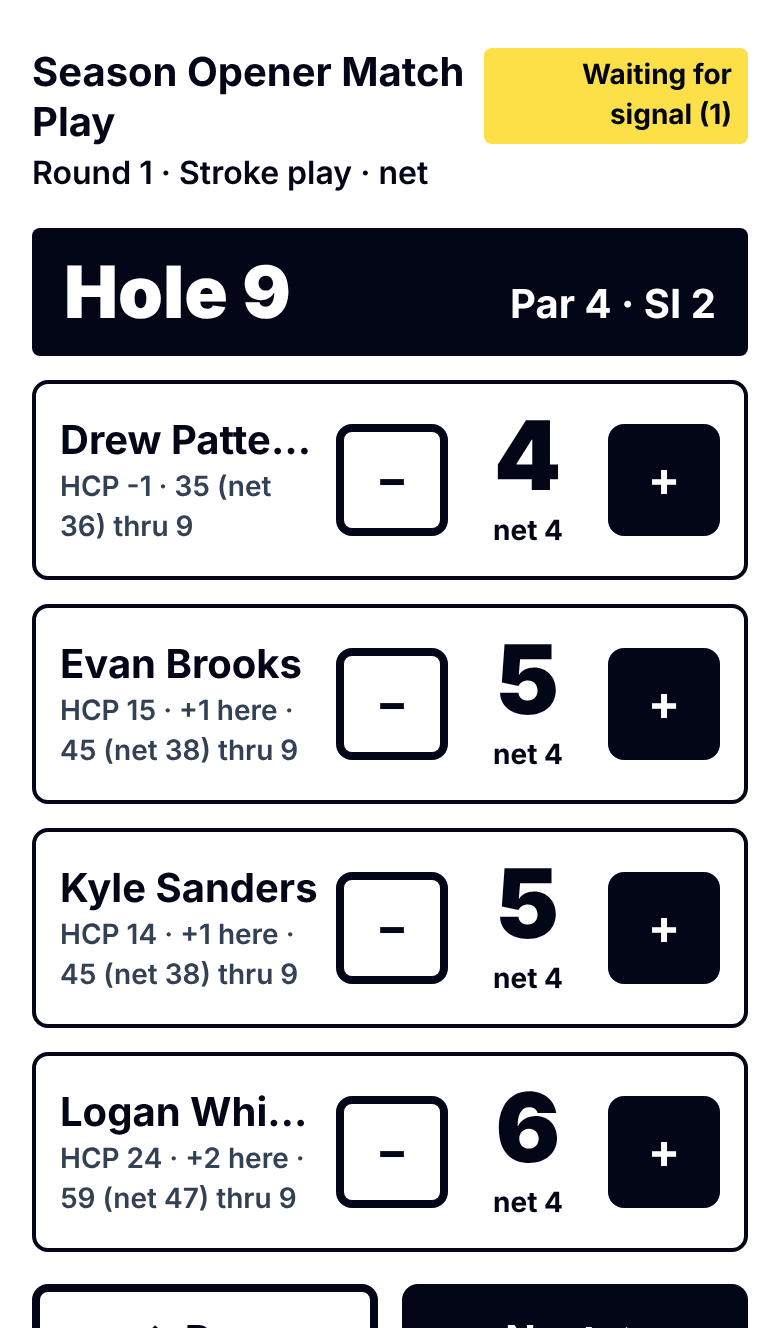
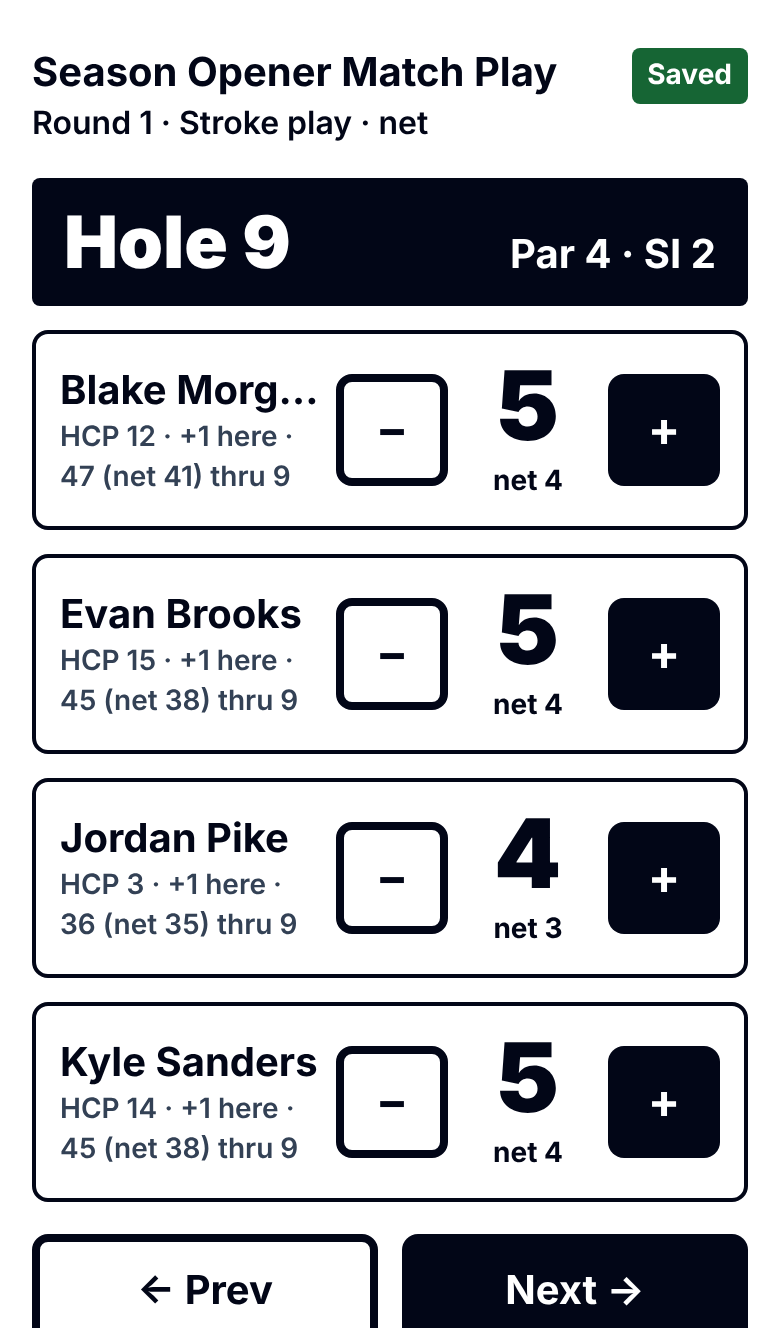
fix(web): callback/middleware redirect to the browser's host; test(e2e): real login; docs: production seed and runbook; plus-handicap display
Claude-Session: https://claude.ai/code/session_0187sESXVTZDKtGNzMULCxre

Changed region(s): [[0.0308, 0.0309, 0.9846, 1.0]]

diff --git a/apps/web/e2e/opener.spec.ts b/apps/web/e2e/opener.spec.ts
@@ -9,7 +9,7 @@ const admin = adminClient();
 const COMMISSIONER = 'player01@example.test';
 const SHOTS = path.resolve(process.cwd(), '../../docs/screenshots');
 const FLOW_TABBAR = 'nav[aria-label="Primary"] { position: static !important; }'; // keep the fixed tab bar out of the middle of full-page shots
-const baseURL = `http://127.0.0.1:${process.env.E2E_PORT ?? 3100}`;
+const baseURL = `http://127.0.0.1:${process.env.E2E_PORT ?? 3000}`;
 
 const w: World = {
   eventId: '',
@@ -49,6 +49,71 @@ test.describe.configure({ mode: 'serial' });
 
 test.afterAll(async () => {
   for (const c of w.contexts.values()) await c.close().catch(() => {});
+});
+
+// --- The real sign-in path: /login form -> emailed link (read from the local Mailpit) -> /auth/callback -> player link.
+const MAILPIT = process.env.MAILPIT_URL ?? 'http://127.0.0.1:54324';
+
+/** Link in the newest message to `to` that arrived after `since` (the Supabase magic-link email). */
+async function magicLinkFor(to: string, since: number): Promise<string> {
+  let link = '';
+  await expect
+    .poll(
+      async () => {
+        const list = (await (await fetch(`${MAILPIT}/api/v1/search?query=${encodeURIComponent(`to:${to}`)}`)).json()) as {
+          messages: { ID: string; Created: string }[];
+        };
+        const fresh = list.messages.filter((m) => new Date(m.Created).getTime() >= since).sort((a, b) => b.Created.localeCompare(a.Created))[0];
+        if (!fresh) return '';
+        const msg = (await (await fetch(`${MAILPIT}/api/v1/message/${fresh.ID}`)).json()) as { HTML: string; Text: string };
+        const m = (msg.HTML + msg.Text).match(/https?:\/\/[^"'\s<>]*\/auth\/v1\/verify[^"'\s<>]*/);
+        link = (m?.[0] ?? '').replace(/&amp;/g, '&');
+        return link;
+      },
+      { timeout: 30_000, message: `no sign-in email for ${to} in Mailpit` },
+    )
+    .not.toBe('');
+  return link;
+}
+
+async function signInThroughForm(browser: Browser, email: string) {
+  const context = await anonymousPhone(browser, baseURL);
+  const page = await context.newPage();
+  const since = Date.now() - 2000;
+  await page.goto('/login');
+  await page.getByLabel('Email').fill(email);
+  await page.getByRole('button', { name: 'Email me a sign-in link' }).click();
+  await expect(page.getByRole('status')).toHaveText('Check your email for a sign-in link.');
+  const link = await magicLinkFor(email, since);
+  await page.goto(link); // same browser context: it holds the PKCE code verifier cookie
+  return { context, page };
+}
+
+test('login: a rostered player signs in through the real form, email link and /auth/callback', async ({ browser }) => {
+  const email = 'player12@example.test';
+  const before = await must(admin.from('players').select('user_id').eq('email', email).single());
+  expect(before.user_id).toBeNull();
+  const { context, page } = await signInThroughForm(browser, email);
+  await expect(page).toHaveURL(`${baseURL}/events`); // "/" sends a signed-in player to Events
+  await expect(page.getByRole('navigation', { name: 'Primary' })).toBeVisible();
+  await page.goto('/me');
+  await expect(page.getByRole('heading', { name: 'Me' })).toBeVisible();
+  await expect(page.getByText(email)).toBeVisible();
+  const after = await must(admin.from('players').select('user_id').eq('email', email).single());
+  expect(after.user_id).toBeTruthy();
+  await context.close();
+});
+
+test('login: an email that is not on the roster ends signed out with "Ask a commissioner to add you."', async ({ browser }) => {
+  const email = 'stranger@example.test';
+  const { context, page } = await signInThroughForm(browser, email);
+  await expect(page).toHaveURL(/\/login\?error=not-on-roster$/);
+  await expect(page.getByText('Ask a commissioner to add you.')).toBeVisible();
+  await page.goto('/me');
+  await expect(page).toHaveURL(/\/login$/); // no session: bounced to the sign-in page
+  const linked = await must(admin.from('players').select('id').eq('email', email));
+  expect(linked).toHaveLength(0);
+  await context.close();
 });
 
 test('stage 1: draft event, publish, registration, groups and tee sheet', async ({ browser }) => {
@@ -329,7 +394,8 @@ async function startMatchCard(browser: Browser, playerEmail: string, key: string
   await expect(article.getByTestId('match-status')).toHaveText('Not scheduled');
   await article.getByRole('button', { name: 'Start match card' }).click();
   await article.getByRole('button', { name: 'Create card and email both players' }).click();
-  await expect(article.getByRole('status')).toContainText('Card created. Code');
+  // The confirmation line is replaced by the "Card code" block once the bracket refreshes; either way the link shows.
+  await expect(article.getByRole('link', { name: 'Open scorecard' })).toBeVisible();
   await page.close();
   return matchCode(key);
 }

diff --git a/apps/web/src/app/c/[code]/Scorecard.tsx b/apps/web/src/app/c/[code]/Scorecard.tsx
@@ -6,6 +6,7 @@ import { SC } from '@/lib/scorecardCodes';
 import { createScoreQueue, type QueueState, type ScoreQueue } from '@/lib/scoreQueue';
 import { extraScored, holeAt, liveMatch, netOnHole, nextExtraHole, playOrder } from '@/lib/scorecardView';
 import { cardCompletion } from '@/lib/cardCompletion';
+import { formatHandicap } from '@/lib/handicapFormat';
 import Sign, { SignedBanner } from './Sign';
 import { fillScores, isNewer, loadCachedView, loadGroupView, pickNewer, saveCachedView, updateCachedCell } from '@/lib/viewCache';
 
@@ -364,7 +365,7 @@ export default function Scorecard({ code, initial }: { code: string; initial: Gr
                       {p.withdrawn && <span className="ml-2 rounded bg-slate-700 px-1.5 text-base text-white">WD</span>}
                     </p>
                     <p className="text-sm font-semibold text-slate-700">
-                      {net ? `HCP ${p.playingHandicap}${strokes ? ` · ${strokes > 0 ? '+' : ''}${strokes} here` : ''} · ` : ''}
+                      {net ? `HCP ${formatHandicap(p.playingHandicap)}${strokes ? ` · ${strokes > 0 ? '+' : ''}${strokes} here` : ''} · ` : ''}
                       {t.n ? `${t.gross}${net ? ` (net ${t.net})` : ''} thru ${t.n}` : 'No scores yet'}
                     </p>
                   </div>

diff --git a/apps/web/test/auth.test.ts b/apps/web/test/auth.test.ts
@@ -112,6 +112,17 @@ describe('auth callback route', () => {
     expect(serverClient.auth.signOut).toHaveBeenCalled();
   });
 
+  it('redirects to the host the browser used, not the host in request.url', async () => {
+    serverClient.auth.exchangeCodeForSession.mockResolvedValue({ error: null });
+    serverClient.auth.getUser.mockResolvedValue({ data: { user: { id: 'u1', email: 'pat@x.com' } } });
+    adminClient.from
+      .mockReturnValueOnce(builder({ data: player({ user_id: null }) }))
+      .mockReturnValueOnce(builder({ data: null }));
+    const r = new Request('http://localhost:3000/auth/callback?code=abc', { headers: { 'x-forwarded-host': '127.0.0.1:3000', 'x-forwarded-proto': 'https' } });
+    const res = await GET(r as never);
+    expect(res.headers.get('location')).toBe('https://127.0.0.1:3000/');
+  });
+
   it('redirects with error when no code is present', async () => {
     const res = await GET(req(''));
     expect(new URL(res.headers.get('location')!).searchParams.get('error')).toBe('invalid-link');

diff --git a/apps/web/e2e/global-setup.ts b/apps/web/e2e/global-setup.ts
@@ -1,5 +1,5 @@
 import { execSync } from 'node:child_process';
-import { adminClient } from './support/env';
+import { adminClient, supabaseEnv } from './support/env';
 
 /** The rehearsal needs the seed and nothing else: no events, no linked accounts. */
 export default async function globalSetup() {
@@ -11,6 +11,10 @@ export default async function globalSetup() {
   };
   if (!(await dirty())) return;
   if (process.env.E2E_RESET === '1') {
+    const host = new URL(supabaseEnv.url).hostname;
+    if (host !== '127.0.0.1' && host !== 'localhost') {
+      throw new Error(`E2E_RESET=1 refuses to reset a database that is not local (Supabase URL host is ${host}).`);
+    }
     execSync('npx -y supabase@2 db reset', {
       stdio: 'inherit',
       env: { ...process.env, SUPABASE_INTERNAL_IMAGE_REGISTRY: process.env.SUPABASE_INTERNAL_IMAGE_REGISTRY ?? 'docker.io' },

diff --git a/apps/web/test/scorecardUi.test.tsx b/apps/web/test/scorecardUi.test.tsx
@@ -69,6 +69,15 @@ describe('Scorecard', () => {
     expect(sent.at(-1)).toMatchObject({ gross: 4 });
   });
 
+  it('shows a plus handicap as +1, not -1', async () => {
+    const v = view({ players: [{ id: 'a', name: 'Alex Turner', playingHandicap: -1 }, { id: 'b', name: 'Blake Morgan', playingHandicap: 12 }] });
+    h.openGroup.mockResolvedValue(live(v));
+    render(<Scorecard code="ABC234" initial={v} />);
+    expect(screen.getByText(/HCP \+1 ·/)).toBeTruthy();
+    expect(screen.getByText(/HCP 12 ·/)).toBeTruthy();
+    expect(screen.queryByText(/HCP -1/)).toBeNull();
+  });
+
   it('shows how many scores the server refused', async () => {
     h.openGroup.mockResolvedValue(live(view()));
     h.saveScores.mockResolvedValue({ ok: true, data: { accepted: 0, rejected: [{ playerId: 'a', hole: 1, reason: 'bad_hole' }] } });

diff --git a/apps/web/src/middleware.ts b/apps/web/src/middleware.ts
@@ -1,6 +1,7 @@
 import { createServerClient } from '@supabase/ssr';
 import { NextResponse, type NextRequest } from 'next/server';
 import { isPublicPath } from '@/lib/publicPaths';
+import { publicOrigin } from '@/lib/publicOrigin';
 
 export async function middleware(request: NextRequest) {
   let response = NextResponse.next({ request });
@@ -19,7 +20,7 @@ export async function middleware(request: NextRequest) {
   const path = request.nextUrl.pathname;
   const isPublic = isPublicPath(path);
   if (!data.user && !isPublic) {
-    const redirect = NextResponse.redirect(new URL('/login', request.url));
+    const redirect = NextResponse.redirect(new URL('/login', publicOrigin(request)));
     response.cookies.getAll().forEach((c) => redirect.cookies.set(c));
     return redirect;
   }

diff --git a/apps/web/test/publicOrigin.test.ts b/apps/web/test/publicOrigin.test.ts
@@ -1,0 +1,16 @@
+import { describe, expect, it } from 'vitest';
+import { publicOrigin } from '@/lib/publicOrigin';
+
+const req = (headers: Record<string, string>) => new Request('http://localhost:3000/x', { headers });
+
+describe('publicOrigin', () => {
+  it('prefers the forwarded host and proto', () => {
+    expect(publicOrigin(req({ 'x-forwarded-host': 'golf.example.com, proxy', 'x-forwarded-proto': 'https' }))).toBe('https://golf.example.com');
+  });
+  it('uses the Host header when not forwarded', () => {
+    expect(publicOrigin(req({ host: '127.0.0.1:3000' }))).toBe('http://127.0.0.1:3000');
+  });
+  it('falls back to request.url', () => {
+    expect(publicOrigin(new Request('http://localhost:3000/x'))).toBe('http://localhost:3000');
+  });
+});

diff --git a/apps/web/src/lib/publicOrigin.ts b/apps/web/src/lib/publicOrigin.ts
@@ -1,0 +1,13 @@
+/**
+ * The origin the browser used to reach the app. `request.url` is not reliable for this behind a
+ * proxy or with `next start -H <host>` (it can say `localhost` while the browser is on 127.0.0.1),
+ * and a redirect to the wrong host drops the session cookies that were just set.
+ */
+export function publicOrigin(request: Request): string {
+  const url = new URL(request.url);
+  const first = (v: string | null) => v?.split(',')[0]?.trim() || null;
+  const host = first(request.headers.get('x-forwarded-host')) ?? first(request.headers.get('host'));
+  if (!host) return url.origin;
+  const proto = first(request.headers.get('x-forwarded-proto')) ?? url.protocol.replace(':', '');
+  return `${proto}://${host}`;
+}

diff --git a/apps/web/src/components/PlayersAdmin.tsx b/apps/web/src/components/PlayersAdmin.tsx
@@ -1,4 +1,5 @@
 'use client';
+import { formatHandicap } from '@/lib/handicapFormat';
 import { useMemo, useState, useTransition } from 'react';
 import { useRouter } from 'next/navigation';
 import { applyHandicapUpdates, savePlayer } from '@/actions/players';
@@ -19,7 +20,7 @@ const blank: Draft = { name: '', email: '', index: '', source: 'GHIN', commissio
 const field = 'min-h-[44px] w-full rounded border px-3 text-base';
 const btn = 'min-h-[44px] rounded px-4 font-semibold';
 
-const fmt = (n: number | null) => (n === null ? '–' : n < 0 ? `+${Math.abs(n).toFixed(1)}` : n.toFixed(1));
+const fmt = formatHandicap;
 
 export default function PlayersAdmin({ players }: { players: PlayerListItem[] }) {
   const router = useRouter();

diff --git a/apps/web/test/handicapFormat.test.ts b/apps/web/test/handicapFormat.test.ts
@@ -1,0 +1,19 @@
+import { describe, expect, it } from 'vitest';
+import { formatHandicap } from '@/lib/handicapFormat';
+
+describe('formatHandicap', () => {
+  it('shows plus handicaps with a plus sign', () => {
+    expect(formatHandicap(-1)).toBe('+1');
+    expect(formatHandicap(-1.2)).toBe('+1.2');
+  });
+  it('shows whole numbers without decimals and others with one', () => {
+    expect(formatHandicap(12)).toBe('12');
+    expect(formatHandicap(0)).toBe('0');
+    expect(formatHandicap(8.4)).toBe('8.4');
+    expect(formatHandicap(24)).toBe('24');
+  });
+  it('shows a dash when there is none', () => {
+    expect(formatHandicap(null)).toBe('–');
+    expect(formatHandicap(undefined)).toBe('–');
+  });
+});

diff --git a/apps/web/src/app/auth/callback/route.ts b/apps/web/src/app/auth/callback/route.ts
@@ -2,9 +2,11 @@ import { NextResponse } from 'next/server';
 import { createServerClient } from '@/lib/supabase/server';
 import { createAdminClient } from '@/lib/supabase/admin';
 import { linkPlayerByEmail } from '@/lib/auth';
+import { publicOrigin } from '@/lib/publicOrigin';
 
 export async function GET(request: Request) {
-  const { searchParams, origin } = new URL(request.url);
+  const { searchParams } = new URL(request.url);
+  const origin = publicOrigin(request);
   const fail = (error: string) => NextResponse.redirect(new URL(`/login?error=${error}`, origin));
 
   const code = searchParams.get('code');

diff --git a/apps/web/src/lib/handicapFormat.ts b/apps/web/src/lib/handicapFormat.ts
@@ -1,0 +1,11 @@
+/**
+ * How a handicap (playing handicap or index) is shown: golfers write a plus handicap as "+1",
+ * not "-1". Whole numbers show without decimals ("12"), others with one ("+1.2", "8.4").
+ * Display only: inputs and pasted lists keep the "+2.1" convention (handicapPaste).
+ */
+export function formatHandicap(n: number | null | undefined): string {
+  if (n === null || n === undefined || Number.isNaN(n)) return '–';
+  const abs = Math.round(Math.abs(n) * 10) / 10;
+  const text = Number.isInteger(abs) ? String(abs) : abs.toFixed(1);
+  return n < 0 && abs !== 0 ? `+${text}` : text;
+}
